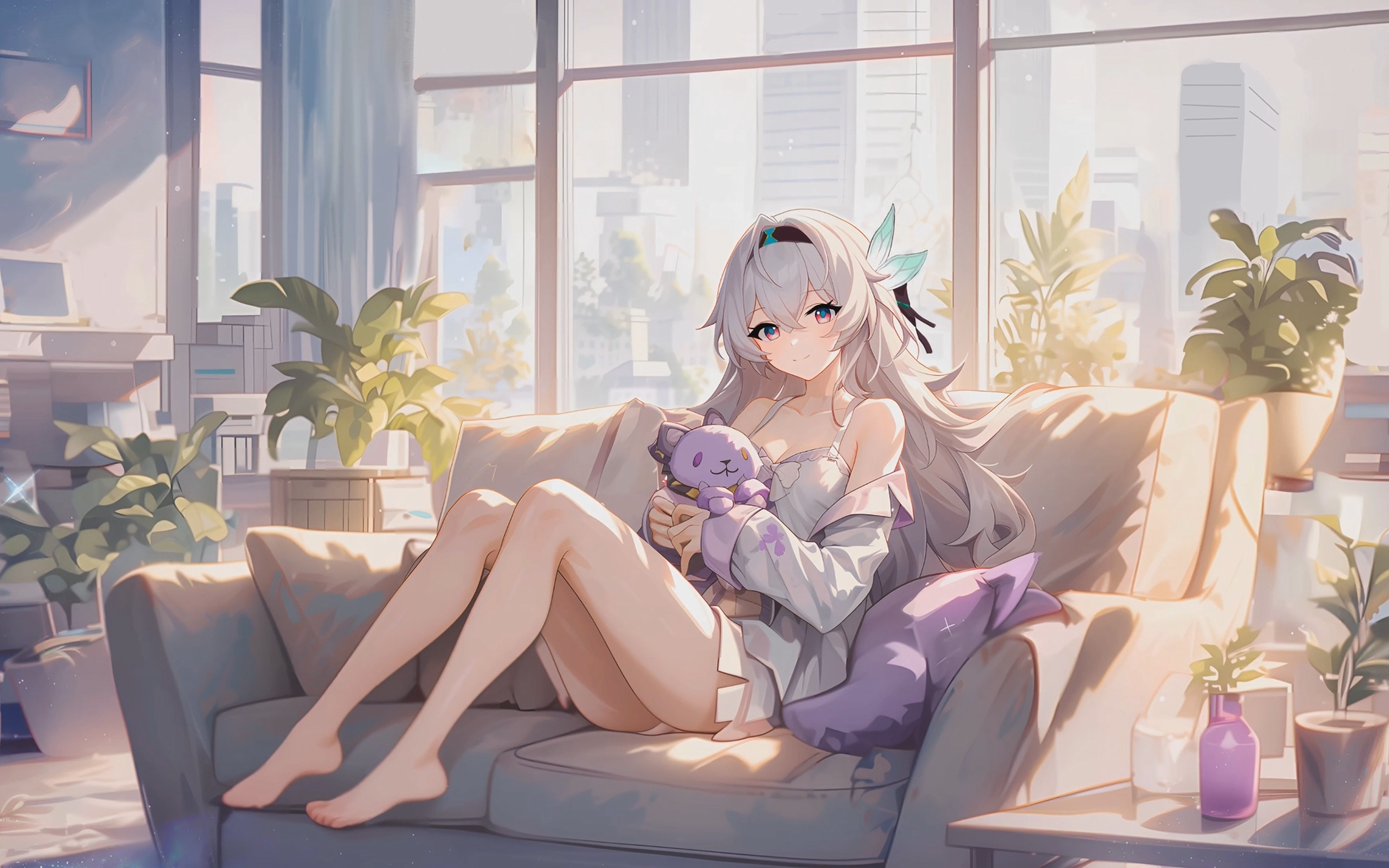
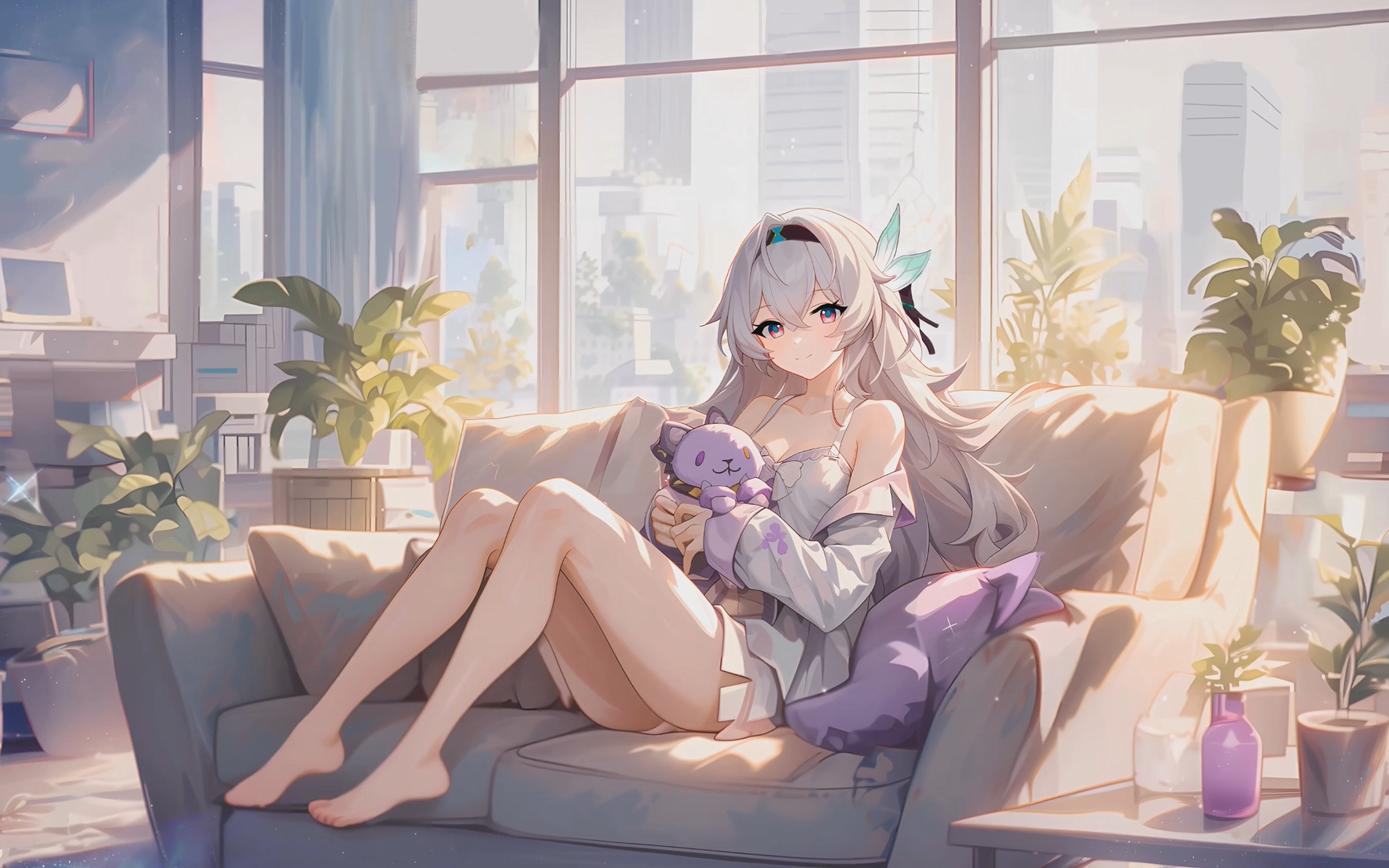
修复显示异常

diff --git a/source/css/custom.css b/source/css/custom.css
@@ -31,6 +31,7 @@
 body {
   font-family: 'JetBrains Mono', 'Noto Serif SC', 'HarmonyOS Sans', 'PingFang SC', 'Microsoft YaHei', monospace;
   color: #080808;
+  background: transparent !important;
 }
 h1, h2, h3, h4, h5, h6 {
   font-family: 'JetBrains Mono', 'Noto Serif SC', 'PingFang SC', monospace;
@@ -326,8 +327,13 @@ a:hover { color: #1a4a7c; }
   color: #f2f2f8 !important;
 }
 
-/* ---- 背景固定 ---- */
-#web_bg { background-attachment: fixed !important; background-size: cover !important; }
+/* ---- 背景固定 / 初始隐藏（避免旧图闪烁） ---- */
+#web_bg {
+  background-attachment: fixed !important;
+  background-size: cover !important;
+  opacity: 0;
+  transition: opacity 0.4s ease;
+}
 
 /* ---- 滚动条 ---- */
 ::-webkit-scrollbar { width: 5px; }
@@ -341,7 +347,7 @@ a:hover { color: #1a4a7c; }
    我们用同等选择器 + !important 覆盖为毛玻璃
    ============================================ */
 
-/* 主内容区（归档/标签/分类/文章等页面的白色背景） */
+/* 主内容区（归档/标签/分类/文章等页面） */
 .layout > div:first-child:not(.nc) {
   background: var(--glass-bg) !important;
   backdrop-filter: blur(var(--glass-blur)) saturate(180%) !important;
@@ -354,6 +360,7 @@ a:hover { color: #1a4a7c; }
 .layout > div:first-child:not(.nc):hover {
   box-shadow: var(--glass-shadow-hover) !important;
 }
+
 
 /* 首页文章卡片 - 全背景覆盖式 */
 #recent-posts .recent-post-item {
@@ -802,10 +809,12 @@ a:hover { color: #1a4a7c; }
   box-shadow: 0 1px 8px rgba(0,0,0,0.03) !important;
 }
 
-/* 顶部大图 */
+/* 顶部大图（初始隐藏，JS 加载后淡入） */
 #page-header {
   background-size: cover !important;
   background-position: center center !important;
+  opacity: 0;
+  transition: opacity 0.4s ease;
 }
 
 #page-header::before {
@@ -832,6 +841,8 @@ a:hover { color: #1a4a7c; }
   background: rgba(0,0,0,0.2) !important;
   border-top: 1px solid rgba(255,255,255,0.06) !important;
   margin-top: 20px;
+  opacity: 0;
+  transition: opacity 0.4s ease;
 }
 
 #footer #footer-wrap {
@@ -891,8 +902,8 @@ blockquote {
   -webkit-backdrop-filter: blur(8px) !important;
 }
 
-/* 表格 */
-table {
+/* 表格（排除代码块内部 table） */
+table:not(figure.highlight table) {
   background: var(--glass-bg-subtle) !important;
   backdrop-filter: blur(8px) !important;
   -webkit-backdrop-filter: blur(8px) !important;
@@ -900,16 +911,22 @@ table {
   overflow: hidden;
 }
 
-table th {
+table:not(figure.highlight table) th {
   background: rgba(73,177,245,0.1) !important;
 }
 
 /* 代码块 */
 figure.highlight {
-  background: rgba(28,32,42,0.85) !important;
+  background: var(--hl-bg) !important;
   border: 1px solid rgba(255,255,255,0.06) !important;
   border-radius: 12px !important;
   box-shadow: 0 4px 20px rgba(0,0,0,0.12) !important;
+}
+
+/* 修复：代码块内部 table 未撑满导致右侧露出灰底 */
+figure.highlight > table {
+  width: 100% !important;
+  min-width: 100% !important;
 }
 
 /* 行内代码 */

diff --git a/source/js/custom.js b/source/js/custom.js
@@ -8,7 +8,7 @@
 
   // 确定性随机：同一个 seed 永远选同一张图
   function pickImage(seed) {
-    if (!IMG_POOL.length) return '/images/picture1.png';
+    if (!IMG_POOL.length) return '';
     const hash = ((seed * 2654435761) >>> 0) % IMG_POOL.length;
     return '/images/' + IMG_POOL[hash];
   }
@@ -22,23 +22,36 @@
   // 设置元素背景（自适应）
   function setBg(el, img) {
     if (!el) return;
+    if (!img) return;
     el.style.backgroundImage = 'url(' + img + ')';
     el.style.backgroundSize = 'cover';
     el.style.backgroundPosition = 'center center';
     el.style.backgroundRepeat = 'no-repeat';
+    fadeIn(el);
   }
 
   // 预加载图片，加载完成后再应用（避免跳动）
   function setBgPreload(el, img) {
     if (!el) return;
+    if (!img) return;
     var tester = new Image();
     tester.onload = function () {
       el.style.backgroundImage = 'url(' + img + ')';
       el.style.backgroundSize = 'cover';
       el.style.backgroundPosition = 'center center';
       el.style.backgroundRepeat = 'no-repeat';
+      fadeIn(el);
     };
     tester.src = img;
+  }
+
+  // 淡入元素（double-rAF 确保背景先以 opacity:0 绘制，再触发 CSS transition）
+  function fadeIn(el) {
+    requestAnimationFrame(function () {
+      requestAnimationFrame(function () {
+        el.style.opacity = '1';
+      });
+    });
   }
 
   // ---- 路径哈希（确定性，同一路径永远同图） ----
@@ -169,11 +182,13 @@
     fetch('/images/manifest.json')
       .then(function (r) { return r.json(); })
       .then(function (list) {
-        IMG_POOL = list;
+        IMG_POOL = (Array.isArray(list) ? list : []).filter(function (name) {
+          return name && name !== 'picture1.png';
+        });
         initWithManifest();
       })
       .catch(function () {
-        IMG_POOL = ['picture1.png'];
+        IMG_POOL = [];
         initWithManifest();
       });
   }
